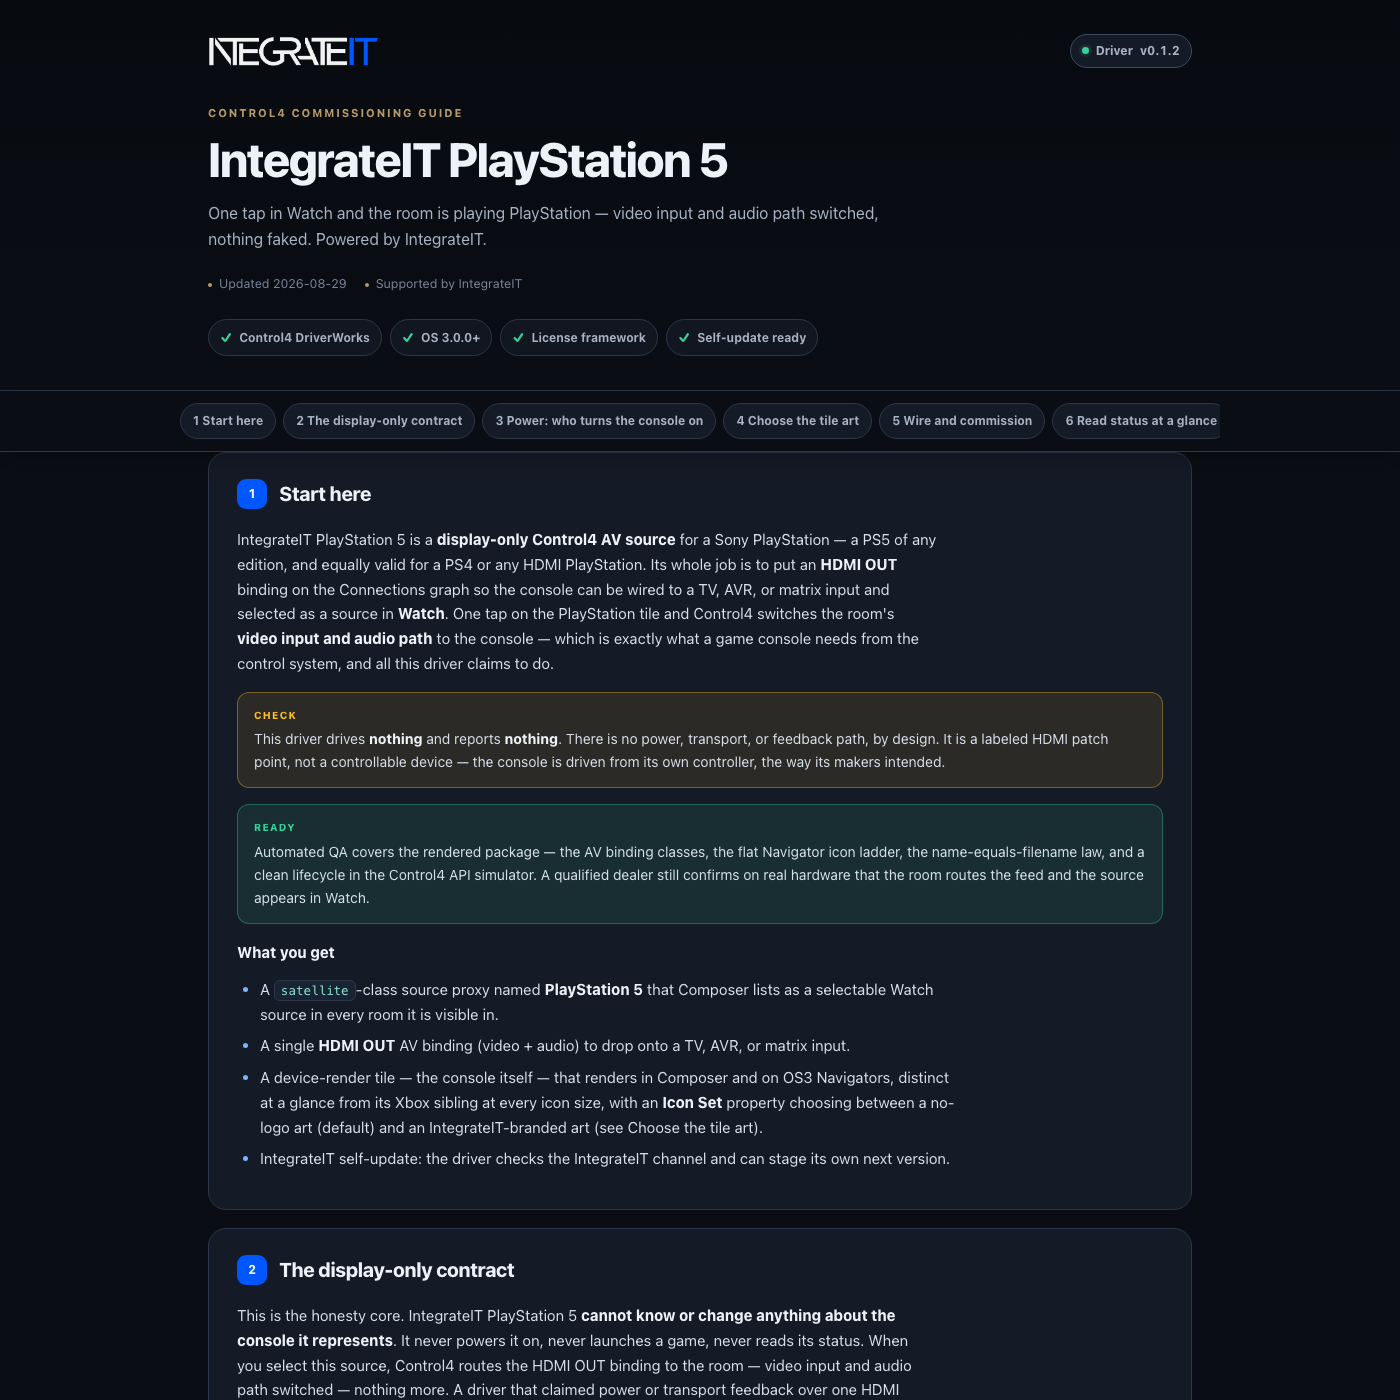
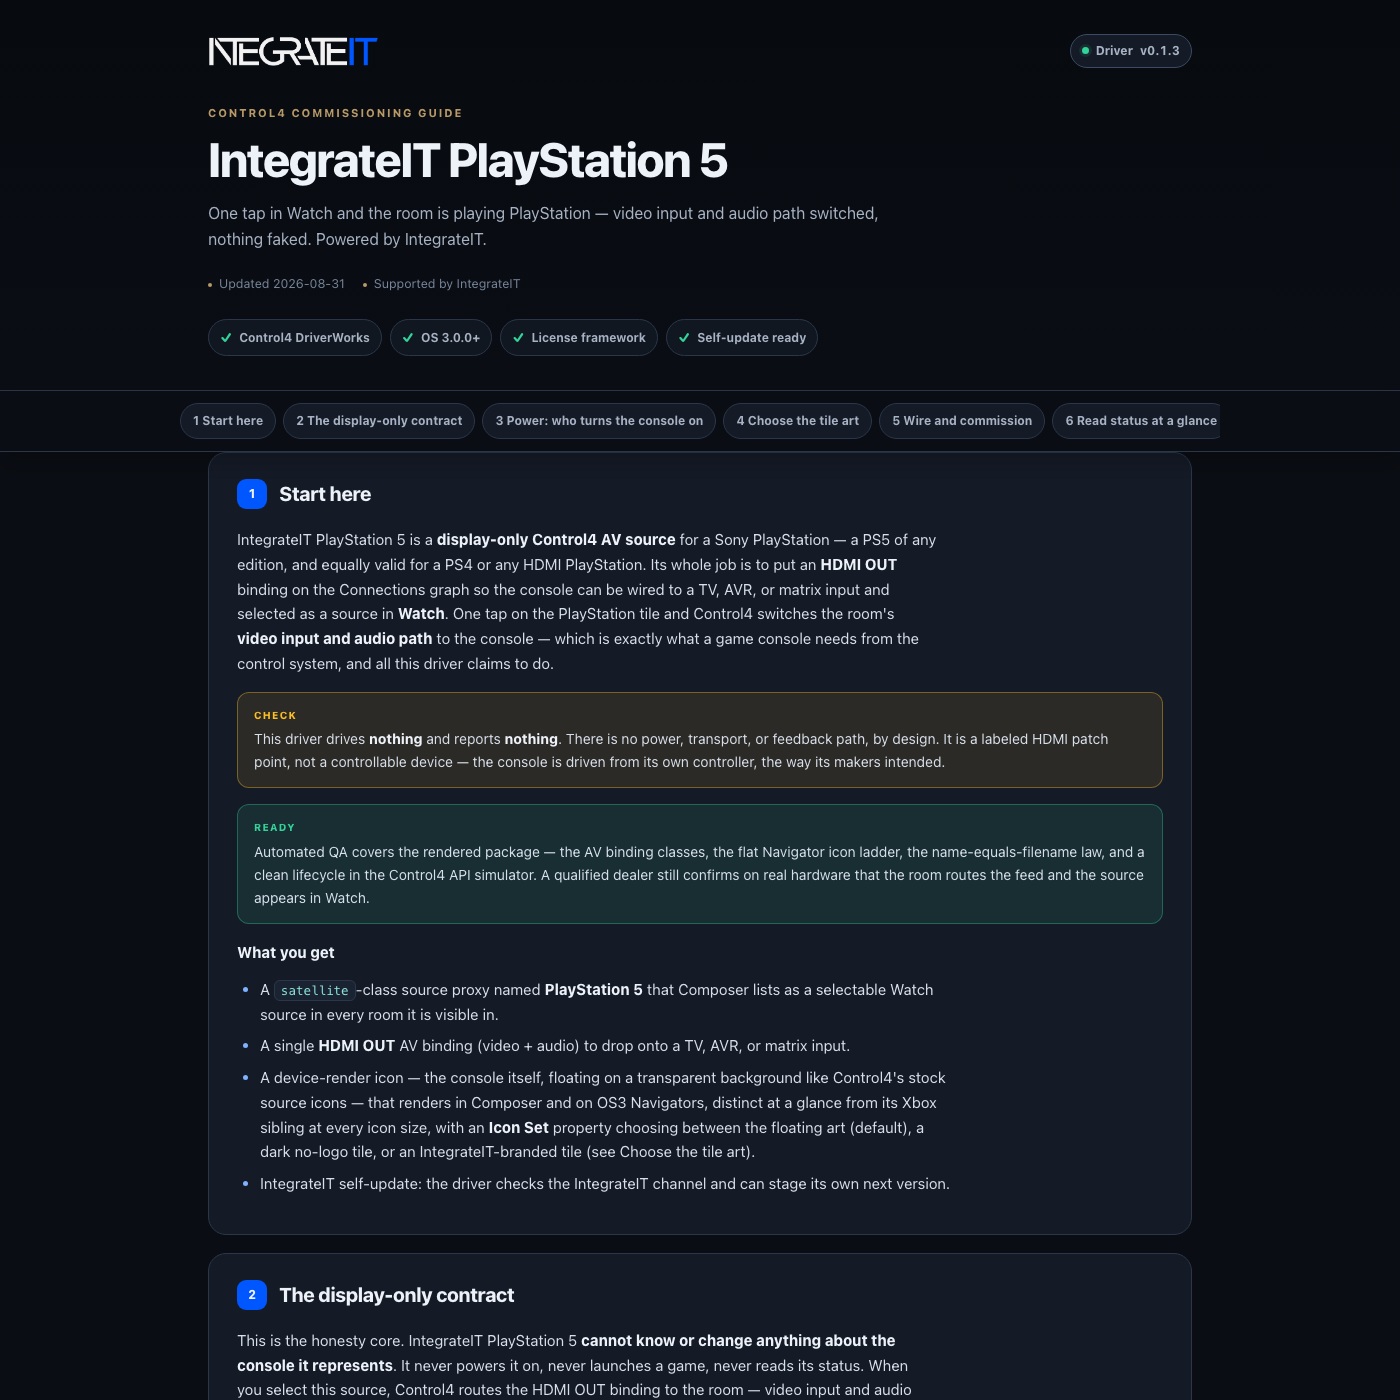
control4: publish driver channel (integrateit_ps5 0.1.3)

Changed region(s): [[0.1536, 0.8907, 0.645, 1.0], [0.1843, 0.7679, 0.6757, 0.86], [0.2764, 0.1843, 0.3686, 0.215]]

diff --git a/control4/integrateit_ps5/documentation.html b/control4/integrateit_ps5/documentation.html
@@ -179,13 +179,13 @@ td code{white-space:normal}
     <div class="wrap">
       <div class="brandbar">
[1 lines of base64/hex data omitted]
-        <span class="version"><span class="word">Driver</span> v0.1.2</span>
+        <span class="version"><span class="word">Driver</span> v0.1.3</span>
       </div>
       <p class="eyebrow">Control4 commissioning guide</p>
       <h1>IntegrateIT PlayStation 5</h1>
       <p class="sub">One tap in Watch and the room is playing PlayStation — video input and audio path switched, nothing faked. Powered by IntegrateIT.</p>
       <div class="meta">
-        <span>Updated 2026-08-29</span>
+        <span>Updated 2026-08-31</span>
         <span>Supported by IntegrateIT</span>
       </div>
       <div class="readiness" aria-label="Driver capabilities">
@@ -211,7 +211,7 @@ td code{white-space:normal}
   <ul>
     <li>A <code>satellite</code>-class source proxy named <b>PlayStation 5</b> that Composer lists as a selectable Watch source in every room it is visible in.</li>
     <li>A single <b>HDMI OUT</b> AV binding (video + audio) to drop onto a TV, AVR, or matrix input.</li>
-    <li>A device-render tile — the console itself — that renders in Composer and on OS3 Navigators, distinct at a glance from its Xbox sibling at every icon size, with an <b>Icon Set</b> property choosing between a no-logo art (default) and an IntegrateIT-branded art (see Choose the tile art).</li>
+    <li>A device-render icon — the console itself, floating on a transparent background like Control4's stock source icons — that renders in Composer and on OS3 Navigators, distinct at a glance from its Xbox sibling at every icon size, with an <b>Icon Set</b> property choosing between the floating art (default), a dark no-logo tile, or an IntegrateIT-branded tile (see Choose the tile art).</li>
     <li>IntegrateIT self-update: the driver checks the IntegrateIT channel and can stage its own next version.</li>
   </ul>
 </section>
@@ -234,10 +234,11 @@ td code{white-space:normal}
 
 <section class="card" id="icons" data-card="icons">
   <h2><span class="n">4</span> Choose the tile art</h2>
-  <p>The driver ships <b>two tile arts</b> and an <b>Icon Set</b> property to pick between them:</p>
+  <p>The driver ships <b>three tile arts</b> and an <b>Icon Set</b> property to pick between them:</p>
   <ul>
-    <li><b>Device Only (No Logo)</b> — the default. Every tile is just the console itself on the dark IntegrateIT ground.</li>
-    <li><b>IntegrateIT Branded</b> — the same console render with the IntegrateIT wordmark added on the large (300 px and up) tiles. Smaller tiles are identical in both sets — a wordmark shrunk to a watch-tile size would be unreadable, so there is nothing to switch down there.</li>
+    <li><b>Floating Device</b> — the default. The console alone on a <b>transparent background</b> with a soft shadow, the same style as Control4's stock source icons (Apple TV and friends), so it sits natively among them on any Navigator wallpaper.</li>
+    <li><b>Device Only (No Logo)</b> — the console on the dark IntegrateIT tile.</li>
+    <li><b>IntegrateIT Branded</b> — the dark tile with the IntegrateIT wordmark added on the large (300 px and up) tiles; below that a wordmark would be unreadable, so smaller branded tiles match Device Only.</li>
   </ul>
   <p>Changing the property swaps the live tile files in place, inside the driver's own package, through Control4's File Interface — no re-install, no different <code>.c4z</code>. Two things to know:</p>
   <ol class="steps">
@@ -280,11 +281,11 @@ td code{white-space:normal}
   <p>Nothing leaves the controller. This driver opens no network connection, holds no credentials, and logs nothing about the console — there is nothing for it to send. Licensing runs in the shared IntegrateIT framework: because the driver has no actuating path, <b>no function is license-gated</b> — a missing or invalid key never disables it. Self-update polls the IntegrateIT channel and can stage the next version for a one-click install in Composer.</p>
 <section class="card" id="reference" data-card="reference">
   <h2><span class="n">R</span> Reference</h2>
-  <p>Generated from the driver manifest at build time — always matches this build (v0.1.2).</p>
+  <p>Generated from the driver manifest at build time — always matches this build (v0.1.3).</p>
   <h3>Properties</h3>
   <table>
     <tr><th>Property</th><th>Type</th><th>Default</th><th>Description</th></tr>
-    <tr><td><code>Icon Set</code></td><td>LIST</td><td><code>Device Only (No Logo)</code></td><td>Which Navigator tile art the large sizes use. Device Only (No Logo) shows just the console; IntegrateIT Branded adds the IntegrateIT wordmark on the 300 px and larger tiles (smaller tiles are identical in both sets). After changing: File &gt; Refresh Navigators, then force-close the mobile app / reboot T3-T4 touchscreens if a tile lingers. The choice re-applies itself after every driver update. One of: Device Only (No Logo) · IntegrateIT Branded</td></tr>
+    <tr><td><code>Icon Set</code></td><td>LIST</td><td><code>Floating Device</code></td><td>Which Navigator tile art to use. Floating Device (the default) is the console alone on a transparent background with a soft shadow — the same style as Control4's stock source icons. Device Only (No Logo) puts the console on a dark IntegrateIT tile; IntegrateIT Branded adds the IntegrateIT wordmark on the 300 px and larger tiles. After changing: File &gt; Refresh Navigators, then force-close the mobile app / reboot T3-T4 touchscreens if a tile lingers. The choice re-applies itself after every driver update. One of: Floating Device · Device Only (No Logo) · IntegrateIT Branded</td></tr>
   </table>
   <p><b>Standard IntegrateIT properties</b> — licensing, self-update, and diagnostics, auto-injected into every IntegrateIT driver:</p>
   <table>
@@ -383,7 +384,9 @@ td code{white-space:normal}
     <section class="card" id="changelog" data-card="changelog">
   <h2><span class="n">V</span> Version history</h2>
   <div class="chg">
-    <div class="rel"><b>v0.1.2</b> <span class="pill green">current</span><span class="d">2026-08-29</span>
+    <div class="rel"><b>v0.1.3</b> <span class="pill green">current</span><span class="d">2026-08-31</span>
+      <ul><li>Third tile art + new default: Floating Device — the console alone on a transparent background with a soft shadow, the same style as Control4's stock source icons, approved from preview. Icon Set now offers Floating Device (default) | Device Only (No Logo) | IntegrateIT Branded; every set ships as a full 16-size ladder and the switch swaps the whole ladder in place, re-asserting after updates as before. Device art fidelity pass rides along (glow halos un-clipped on transparency; PS5 tower slimmed to true proportions; Xbox gains eject dot + front USB detail).</li></ul></div>
+    <div class="rel"><b>v0.1.2</b><span class="d">2026-08-29</span>
       <ul><li>New Icon Set property (Composer &gt; driver properties): Device Only (No Logo) — now the default, every tile is just the console — or IntegrateIT Branded (adds the IntegrateIT wordmark on the 300px+ tiles). The switch swaps the live tile files in place through Control4's File Interface (OS 3.3.0 C4Z alias), tells you the Navigator refresh order in Status, and re-asserts your choice after every driver update. Only the large tiles differ; watch-tile sizes are identical device-only art in both sets.</li></ul></div>
     <div class="rel"><b>v0.1.1</b><span class="d">2026-08-29</span>
       <ul><li>Navigator tile is now the device itself: an original vector render of the PlayStation 5 tower — white flared fins, black core, blue light seam, round stand — replacing the 0.1.0 typographic PS5 mark. No manufacturer logo artwork; xml_version bump forces the Navigator icon refresh.</li></ul></div>

diff --git a/control4/integrateit_ps5/CHANGELOG.md b/control4/integrateit_ps5/CHANGELOG.md
@@ -1,5 +1,8 @@
 # Changelog — IntegrateIT PlayStation 5
 
+## [0.1.3] - 2026-08-31
+- Third tile art + new default: Floating Device — the console alone on a transparent background with a soft shadow, the same style as Control4's stock source icons, approved from preview. Icon Set now offers Floating Device (default) | Device Only (No Logo) | IntegrateIT Branded; every set ships as a full 16-size ladder and the switch swaps the whole ladder in place, re-asserting after updates as before. Device art fidelity pass rides along (glow halos un-clipped on transparency; PS5 tower slimmed to true proportions; Xbox gains eject dot + front USB detail).
+
 ## [0.1.2] - 2026-08-29
 - New Icon Set property (Composer > driver properties): Device Only (No Logo) — now the default, every tile is just the console — or IntegrateIT Branded (adds the IntegrateIT wordmark on the 300px+ tiles). The switch swaps the live tile files in place through Control4's File Interface (OS 3.3.0 C4Z alias), tells you the Navigator refresh order in Status, and re-asserts your choice after every driver update. Only the large tiles differ; watch-tile sizes are identical device-only art in both sets.
 
